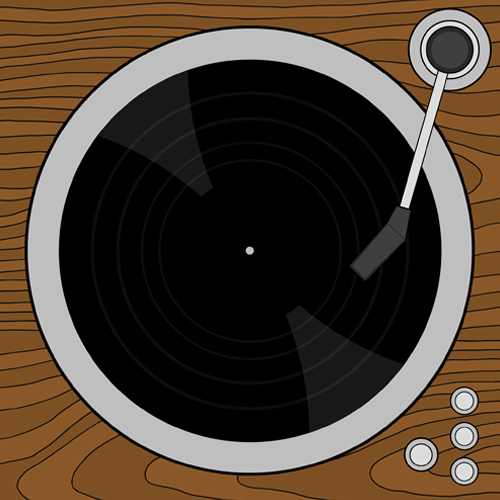
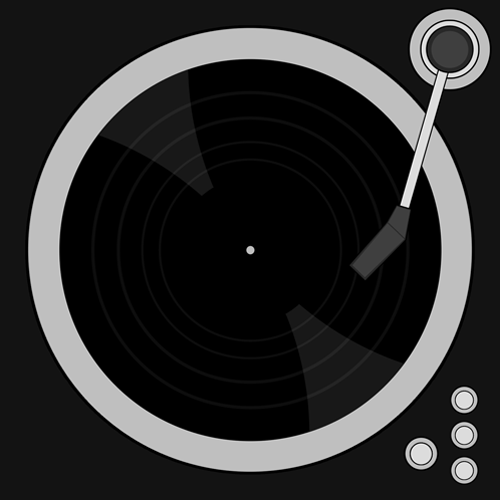
asset changes

diff --git a/src/views/Home/Home.jsx b/src/views/Home/Home.jsx
@@ -10,7 +10,7 @@ import grayCheckMark from "../../assets/img/gray_check.png";
 import Landing from "./Landing";
 import demoImage from "../../assets/img/metamask_fox.svg";
 import { FAQ } from "./FAQ/FAQ"
-import recordPlayer from "../../assets/img/record_player.png";
+import record from "../../assets/img/record_player_disk.png";
 
 const Listen = () => {
   const { path } = useRouteMatch();
@@ -29,7 +29,7 @@ const Listen = () => {
               We are a music distribution platform dedicated to artists and fans alike. We aim to add legitimacy to both the Music and the Crypto industry by providing fans a way to directly support the artists they love. On NFT FM, artists have full control over how they distribute their music. Over 90% of all purchases go directly to the Musicians.
             </StyledParagraph>
           </DescriptionColumn>
-          <DemoImage src={recordPlayer} />
+          <DemoImage src={record} />
         </DescriptionBoxContainer>
         <LaunchContainer>
           <ContainerTitle>
@@ -125,7 +125,6 @@ flex: 1;
 
 const DemoImage = styled.img`
   height: 213px;
-  border: 2px solid black;
   width: auto;
   margin: auto 0 auto 20%;
   @media only screen and (max-width: 776px) {

diff --git a/server/routes/user.router.js b/server/routes/user.router.js
@@ -5,7 +5,7 @@ const multer = require('multer');
 const User = require('../schemas/User.schema')
 const Suggestion = require("../schemas/Suggestion.schema");
 const NftType = require('../schemas/NftType.schema');
-const { sign, getSetSale, findLikes } = require('../web3/server-utils');
+const { findLikes } = require('../web3/server-utils');
 
 router.post('/get-account', async (req, res) => {
   try {
